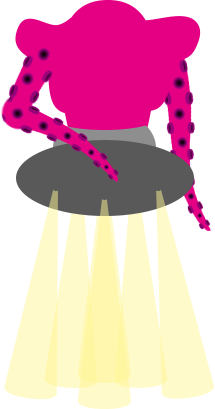
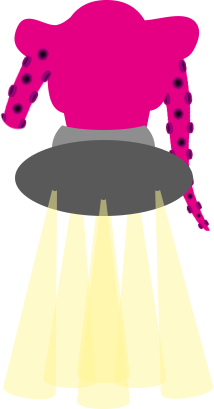
Dirty sprite update, alien fix

diff --git a/handshake.js b/handshake.js
@@ -6,7 +6,7 @@ window.onload = function() {
     const EXTENSION_SPEED = 2000.0;
 
     // Person types
-    const FIRST_PERSON = 'businessman';
+    const FIRST_PERSON = 'alien';
     //const PERSONS = ['businessman', 'punk', 'nazi', 'granny', 'alien', 'rapper'];
     const PERSONS = ['alien'];
 
@@ -294,8 +294,8 @@ window.onload = function() {
         game.load.image('arm-scissor', 'assets/hand/hand-scissor.png');
         game.load.image('arm-stone', 'assets/hand/hand-stone.png');
         game.load.image('arm-paper-dirty', 'assets/hand/hand-paper-poisoned.png');
-        game.load.image('arm-scissor-dirty', 'assets/hand/hand-scissor-dirty.png');
-        game.load.image('arm-stone-dirty', 'assets/hand/hand-stone-dirty.png');
+        game.load.image('arm-scissor-dirty', 'assets/hand/hand-scissor-poisoned.png');
+        game.load.image('arm-stone-dirty', 'assets/hand/hand-stone-poisoned.png');
 
         // Audio
         game.load.audio('alien-intro', ['assets/alien/alien-intro.ogg']);
